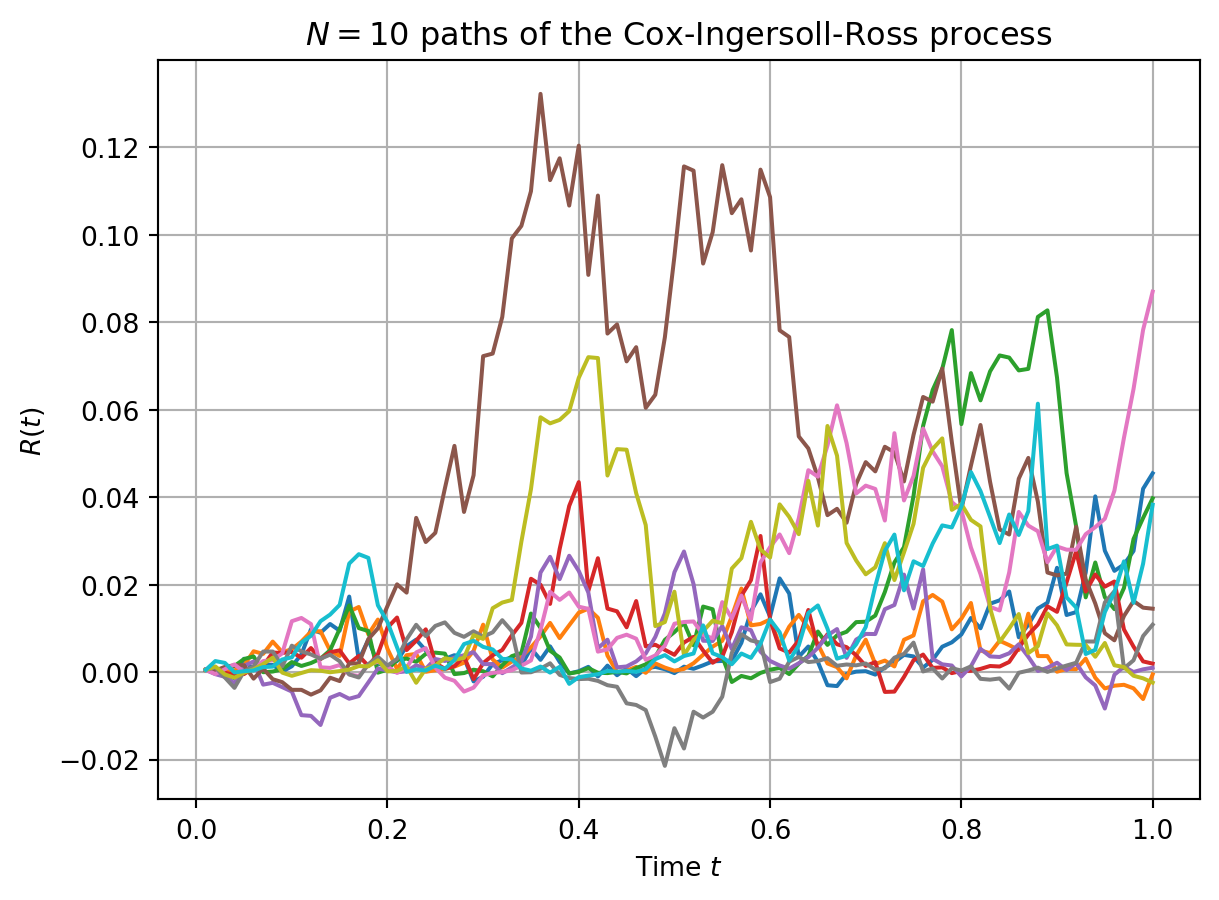
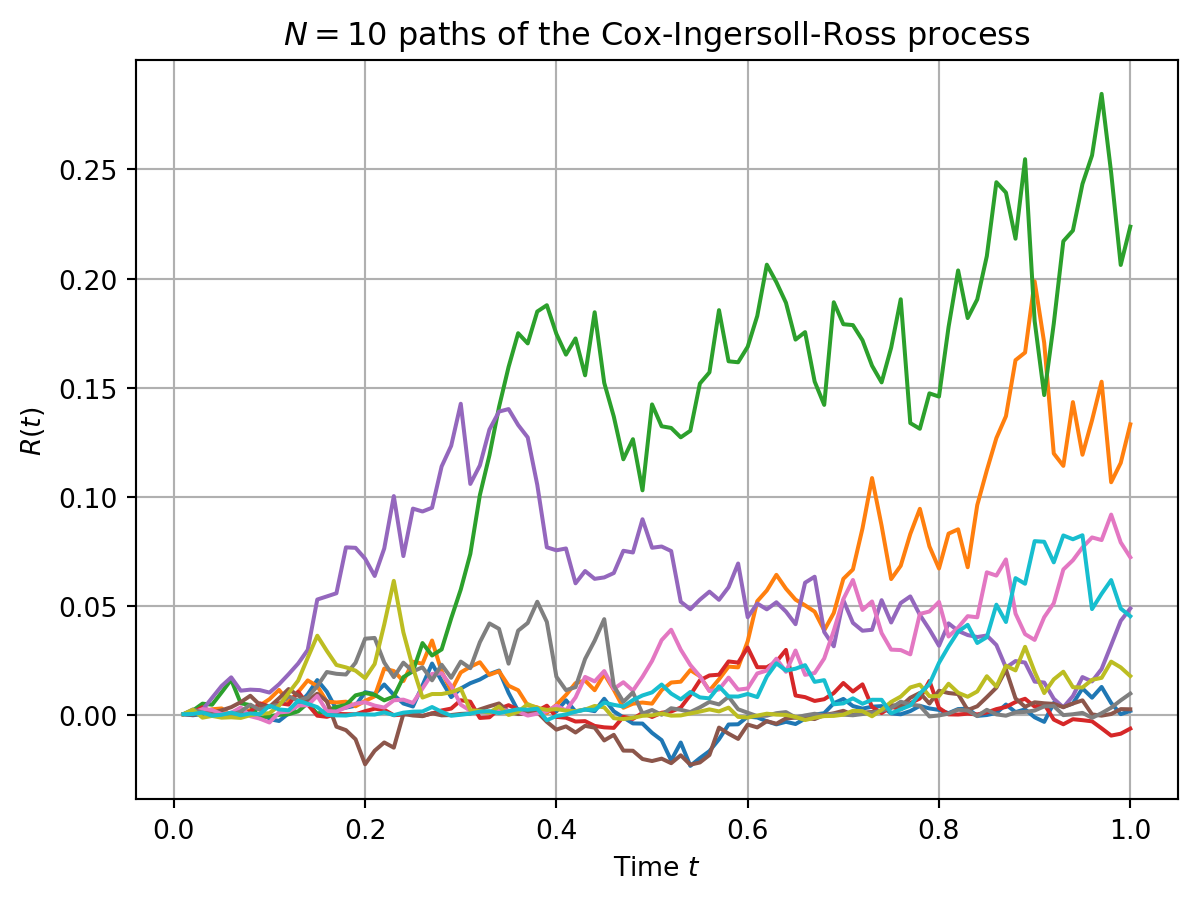
minor updates

diff --git a/docs/posts/cox-ingersoll-ross-model/index.html b/docs/posts/cox-ingersoll-ross-model/index.html
@@ -245,37 +245,35 @@ r_t &amp;= r_0 e^{-\kappa t} + \theta (1 - e^{-\kappa t}) + \sigma \int_{0}^{t} 
 <span id="cb1-11"><a href="#cb1-11" aria-hidden="true" tabindex="-1"></a>        kappa: <span class="bu">float</span>,</span>
 <span id="cb1-12"><a href="#cb1-12" aria-hidden="true" tabindex="-1"></a>        theta: <span class="bu">float</span>,</span>
 <span id="cb1-13"><a href="#cb1-13" aria-hidden="true" tabindex="-1"></a>        sigma: <span class="bu">float</span>,</span>
-<span id="cb1-14"><a href="#cb1-14" aria-hidden="true" tabindex="-1"></a>        num_paths: <span class="bu">int</span>,</span>
-<span id="cb1-15"><a href="#cb1-15" aria-hidden="true" tabindex="-1"></a>        step_size: <span class="bu">float</span>,</span>
-<span id="cb1-16"><a href="#cb1-16" aria-hidden="true" tabindex="-1"></a>        total_time: <span class="bu">float</span>,</span>
-<span id="cb1-17"><a href="#cb1-17" aria-hidden="true" tabindex="-1"></a>    ):</span>
-<span id="cb1-18"><a href="#cb1-18" aria-hidden="true" tabindex="-1"></a>        <span class="va">self</span>.kappa <span class="op">=</span> kappa</span>
-<span id="cb1-19"><a href="#cb1-19" aria-hidden="true" tabindex="-1"></a>        <span class="va">self</span>.theta <span class="op">=</span> theta</span>
-<span id="cb1-20"><a href="#cb1-20" aria-hidden="true" tabindex="-1"></a>        <span class="va">self</span>.sigma <span class="op">=</span> sigma</span>
-<span id="cb1-21"><a href="#cb1-21" aria-hidden="true" tabindex="-1"></a>        <span class="va">self</span>.num_paths <span class="op">=</span> num_paths</span>
-<span id="cb1-22"><a href="#cb1-22" aria-hidden="true" tabindex="-1"></a>        <span class="va">self</span>.step_size <span class="op">=</span> step_size</span>
-<span id="cb1-23"><a href="#cb1-23" aria-hidden="true" tabindex="-1"></a>        <span class="va">self</span>.total_time <span class="op">=</span> total_time</span>
-<span id="cb1-24"><a href="#cb1-24" aria-hidden="true" tabindex="-1"></a></span>
-<span id="cb1-25"><a href="#cb1-25" aria-hidden="true" tabindex="-1"></a>    <span class="kw">def</span> generate_paths(<span class="va">self</span>):</span>
-<span id="cb1-26"><a href="#cb1-26" aria-hidden="true" tabindex="-1"></a>        <span class="co">"""Generate sample paths"""</span></span>
-<span id="cb1-27"><a href="#cb1-27" aria-hidden="true" tabindex="-1"></a>        num_steps <span class="op">=</span> <span class="bu">int</span>(<span class="va">self</span>.total_time <span class="op">/</span> <span class="va">self</span>.step_size)</span>
-<span id="cb1-28"><a href="#cb1-28" aria-hidden="true" tabindex="-1"></a>        dz <span class="op">=</span> np.random.standard_normal((<span class="va">self</span>.num_paths, num_steps))</span>
-<span id="cb1-29"><a href="#cb1-29" aria-hidden="true" tabindex="-1"></a>        r_t <span class="op">=</span> np.zeros((<span class="va">self</span>.num_paths, num_steps))</span>
-<span id="cb1-30"><a href="#cb1-30" aria-hidden="true" tabindex="-1"></a>        zero_vector <span class="op">=</span> np.full(<span class="va">self</span>.num_paths, <span class="fl">0.0</span>)</span>
-<span id="cb1-31"><a href="#cb1-31" aria-hidden="true" tabindex="-1"></a>        prev_r <span class="op">=</span> zero_vector</span>
-<span id="cb1-32"><a href="#cb1-32" aria-hidden="true" tabindex="-1"></a>        <span class="cf">for</span> i <span class="kw">in</span> <span class="bu">range</span>(num_steps):</span>
-<span id="cb1-33"><a href="#cb1-33" aria-hidden="true" tabindex="-1"></a>            r_t[:, i] <span class="op">=</span> (</span>
-<span id="cb1-34"><a href="#cb1-34" aria-hidden="true" tabindex="-1"></a>                prev_r</span>
-<span id="cb1-35"><a href="#cb1-35" aria-hidden="true" tabindex="-1"></a>                <span class="op">+</span> <span class="va">self</span>.kappa <span class="op">*</span> np.subtract(<span class="va">self</span>.theta, prev_r) <span class="op">*</span> <span class="va">self</span>.step_size</span>
-<span id="cb1-36"><a href="#cb1-36" aria-hidden="true" tabindex="-1"></a>                <span class="op">+</span> <span class="va">self</span>.sigma</span>
-<span id="cb1-37"><a href="#cb1-37" aria-hidden="true" tabindex="-1"></a>                <span class="op">*</span> np.sqrt(np.<span class="bu">abs</span>(prev_r))</span>
-<span id="cb1-38"><a href="#cb1-38" aria-hidden="true" tabindex="-1"></a>                <span class="op">*</span> math.sqrt(<span class="va">self</span>.step_size)</span>
-<span id="cb1-39"><a href="#cb1-39" aria-hidden="true" tabindex="-1"></a>                <span class="op">*</span> dz[:, i]</span>
-<span id="cb1-40"><a href="#cb1-40" aria-hidden="true" tabindex="-1"></a>            )</span>
+<span id="cb1-14"><a href="#cb1-14" aria-hidden="true" tabindex="-1"></a>        step_size: <span class="bu">float</span>,</span>
+<span id="cb1-15"><a href="#cb1-15" aria-hidden="true" tabindex="-1"></a>        total_time: <span class="bu">float</span>,</span>
+<span id="cb1-16"><a href="#cb1-16" aria-hidden="true" tabindex="-1"></a>    ):</span>
+<span id="cb1-17"><a href="#cb1-17" aria-hidden="true" tabindex="-1"></a>        <span class="va">self</span>.kappa <span class="op">=</span> kappa</span>
+<span id="cb1-18"><a href="#cb1-18" aria-hidden="true" tabindex="-1"></a>        <span class="va">self</span>.theta <span class="op">=</span> theta</span>
+<span id="cb1-19"><a href="#cb1-19" aria-hidden="true" tabindex="-1"></a>        <span class="va">self</span>.sigma <span class="op">=</span> sigma</span>
+<span id="cb1-20"><a href="#cb1-20" aria-hidden="true" tabindex="-1"></a>        <span class="va">self</span>.step_size <span class="op">=</span> step_size</span>
+<span id="cb1-21"><a href="#cb1-21" aria-hidden="true" tabindex="-1"></a>        <span class="va">self</span>.total_time <span class="op">=</span> total_time</span>
+<span id="cb1-22"><a href="#cb1-22" aria-hidden="true" tabindex="-1"></a></span>
+<span id="cb1-23"><a href="#cb1-23" aria-hidden="true" tabindex="-1"></a>    <span class="kw">def</span> generate_paths(<span class="va">self</span>, num_paths):</span>
+<span id="cb1-24"><a href="#cb1-24" aria-hidden="true" tabindex="-1"></a>        <span class="co">"""Generate sample paths"""</span></span>
+<span id="cb1-25"><a href="#cb1-25" aria-hidden="true" tabindex="-1"></a>        num_steps <span class="op">=</span> <span class="bu">int</span>(<span class="va">self</span>.total_time <span class="op">/</span> <span class="va">self</span>.step_size)</span>
+<span id="cb1-26"><a href="#cb1-26" aria-hidden="true" tabindex="-1"></a>        dz <span class="op">=</span> np.random.standard_normal((num_paths, num_steps))</span>
+<span id="cb1-27"><a href="#cb1-27" aria-hidden="true" tabindex="-1"></a>        r_t <span class="op">=</span> np.zeros((num_paths, num_steps))</span>
+<span id="cb1-28"><a href="#cb1-28" aria-hidden="true" tabindex="-1"></a>        zero_vector <span class="op">=</span> np.full(num_paths, <span class="fl">0.0</span>)</span>
+<span id="cb1-29"><a href="#cb1-29" aria-hidden="true" tabindex="-1"></a>        prev_r <span class="op">=</span> zero_vector</span>
+<span id="cb1-30"><a href="#cb1-30" aria-hidden="true" tabindex="-1"></a>        <span class="cf">for</span> i <span class="kw">in</span> <span class="bu">range</span>(num_steps):</span>
+<span id="cb1-31"><a href="#cb1-31" aria-hidden="true" tabindex="-1"></a>            r_t[:, i] <span class="op">=</span> (</span>
+<span id="cb1-32"><a href="#cb1-32" aria-hidden="true" tabindex="-1"></a>                prev_r</span>
+<span id="cb1-33"><a href="#cb1-33" aria-hidden="true" tabindex="-1"></a>                <span class="op">+</span> <span class="va">self</span>.kappa <span class="op">*</span> np.subtract(<span class="va">self</span>.theta, prev_r) <span class="op">*</span> <span class="va">self</span>.step_size</span>
+<span id="cb1-34"><a href="#cb1-34" aria-hidden="true" tabindex="-1"></a>                <span class="op">+</span> <span class="va">self</span>.sigma</span>
+<span id="cb1-35"><a href="#cb1-35" aria-hidden="true" tabindex="-1"></a>                <span class="op">*</span> np.sqrt(np.<span class="bu">abs</span>(prev_r))</span>
+<span id="cb1-36"><a href="#cb1-36" aria-hidden="true" tabindex="-1"></a>                <span class="op">*</span> math.sqrt(<span class="va">self</span>.step_size)</span>
+<span id="cb1-37"><a href="#cb1-37" aria-hidden="true" tabindex="-1"></a>                <span class="op">*</span> dz[:, i]</span>
+<span id="cb1-38"><a href="#cb1-38" aria-hidden="true" tabindex="-1"></a>            )</span>
+<span id="cb1-39"><a href="#cb1-39" aria-hidden="true" tabindex="-1"></a></span>
+<span id="cb1-40"><a href="#cb1-40" aria-hidden="true" tabindex="-1"></a>            prev_r <span class="op">=</span> r_t[:, i]</span>
 <span id="cb1-41"><a href="#cb1-41" aria-hidden="true" tabindex="-1"></a></span>
-<span id="cb1-42"><a href="#cb1-42" aria-hidden="true" tabindex="-1"></a>            prev_r <span class="op">=</span> r_t[:, i]</span>
-<span id="cb1-43"><a href="#cb1-43" aria-hidden="true" tabindex="-1"></a></span>
-<span id="cb1-44"><a href="#cb1-44" aria-hidden="true" tabindex="-1"></a>        <span class="cf">return</span> r_t</span></code><button title="Copy to Clipboard" class="code-copy-button"><i class="bi"></i></button></pre></div>
+<span id="cb1-42"><a href="#cb1-42" aria-hidden="true" tabindex="-1"></a>        <span class="cf">return</span> r_t</span></code><button title="Copy to Clipboard" class="code-copy-button"><i class="bi"></i></button></pre></div>
 </div>
 </section>
 <section id="sample-paths" class="level3">
@@ -285,10 +283,10 @@ r_t &amp;= r_0 e^{-\kappa t} + \theta (1 - e^{-\kappa t}) + \sigma \int_{0}^{t} 
 <details>
 <summary>Show the code</summary>
 <div class="sourceCode cell-code" id="cb2"><pre class="sourceCode python code-with-copy"><code class="sourceCode python"><span id="cb2-1"><a href="#cb2-1" aria-hidden="true" tabindex="-1"></a>cir_process <span class="op">=</span> CIRProcess(</span>
-<span id="cb2-2"><a href="#cb2-2" aria-hidden="true" tabindex="-1"></a>    kappa<span class="op">=</span><span class="fl">0.1</span>, theta<span class="op">=</span><span class="fl">0.5</span>, sigma<span class="op">=</span><span class="fl">0.5</span>, num_paths<span class="op">=</span><span class="dv">10</span>, step_size<span class="op">=</span><span class="fl">0.01</span>, total_time<span class="op">=</span><span class="fl">1.0</span></span>
+<span id="cb2-2"><a href="#cb2-2" aria-hidden="true" tabindex="-1"></a>    kappa<span class="op">=</span><span class="fl">0.1</span>, theta<span class="op">=</span><span class="fl">0.5</span>, sigma<span class="op">=</span><span class="fl">0.5</span>, step_size<span class="op">=</span><span class="fl">0.01</span>, total_time<span class="op">=</span><span class="fl">1.0</span></span>
 <span id="cb2-3"><a href="#cb2-3" aria-hidden="true" tabindex="-1"></a>)</span>
 <span id="cb2-4"><a href="#cb2-4" aria-hidden="true" tabindex="-1"></a></span>
-<span id="cb2-5"><a href="#cb2-5" aria-hidden="true" tabindex="-1"></a>paths <span class="op">=</span> cir_process.generate_paths()</span>
+<span id="cb2-5"><a href="#cb2-5" aria-hidden="true" tabindex="-1"></a>paths <span class="op">=</span> cir_process.generate_paths(num_paths<span class="op">=</span><span class="dv">10</span>)</span>
 <span id="cb2-6"><a href="#cb2-6" aria-hidden="true" tabindex="-1"></a>t <span class="op">=</span> np.linspace(<span class="fl">0.01</span>, <span class="fl">1.0</span>, <span class="dv">100</span>)</span>
 <span id="cb2-7"><a href="#cb2-7" aria-hidden="true" tabindex="-1"></a></span>
 <span id="cb2-8"><a href="#cb2-8" aria-hidden="true" tabindex="-1"></a>plt.grid(<span class="va">True</span>)</span>
@@ -301,7 +299,7 @@ r_t &amp;= r_0 e^{-\kappa t} + \theta (1 - e^{-\kappa t}) + \sigma \int_{0}^{t} 
 <span id="cb2-15"><a href="#cb2-15" aria-hidden="true" tabindex="-1"></a>plt.show()</span></code><button title="Copy to Clipboard" class="code-copy-button"><i class="bi"></i></button></pre></div>
 </details>
 <div class="cell-output cell-output-display">
-<p><img src="index_files/figure-html/cell-3-output-1.png" width="610" height="450"></p>
+<p><img src="index_files/figure-html/cell-3-output-1.png" width="598" height="450"></p>
 </div>
 </div>
 

diff --git a/docs/index.html b/docs/index.html
@@ -153,7 +153,7 @@ ul.task-list li input[type="checkbox"] {
 
 <div class="quarto-listing quarto-listing-container-grid" id="listing-listing">
 <div class="list grid quarto-listing-cols-3">
-<div class="g-col-1" data-index="0" data-categories="Interest Rate Modelling" data-listing-date-sort="1715119200000" data-listing-file-modified-sort="1715174938711" data-listing-date-modified-sort="NaN" data-listing-reading-time-sort="4">
+<div class="g-col-1" data-index="0" data-categories="Interest Rate Modelling" data-listing-date-sort="1715119200000" data-listing-file-modified-sort="1715195243064" data-listing-date-modified-sort="NaN" data-listing-reading-time-sort="4">
 <a href="./posts/cox-ingersoll-ross-model/index.html" class="quarto-grid-link">
 <div class="quarto-grid-item card h-100 card-left">
 <p class="card-img-top">

diff --git a/posts/cox-ingersoll-ross-model/cox_ingersoll_ross.py b/posts/cox-ingersoll-ross-model/cox_ingersoll_ross.py
@@ -1,6 +1,9 @@
 import math
 import numpy as np
 import matplotlib.pyplot as plt
+from matplotlib import cm
+import pandas as pd
+import joypy
 
 
 class CIRProcess:
@@ -11,23 +14,21 @@ class CIRProcess:
         kappa: float,
         theta: float,
         sigma: float,
-        num_paths: int,
         step_size: float,
         total_time: float,
     ):
         self.kappa = kappa
         self.theta = theta
         self.sigma = sigma
-        self.num_paths = num_paths
         self.step_size = step_size
         self.total_time = total_time
 
-    def generate_paths(self):
+    def generate_paths(self, num_paths):
         """Generate sample paths"""
         num_steps = int(self.total_time / self.step_size)
-        dz = np.random.standard_normal((self.num_paths, num_steps))
-        r_t = np.zeros((self.num_paths, num_steps))
-        zero_vector = np.full(self.num_paths, 0.0)
+        dz = np.random.standard_normal((num_paths, num_steps))
+        r_t = np.zeros((num_paths, num_steps))
+        zero_vector = np.full(num_paths, 0.0)
         prev_r = zero_vector
         for i in range(num_steps):
             r_t[:, i] = (
@@ -45,14 +46,32 @@ class CIRProcess:
 
 
 cir_process = CIRProcess(
-    kappa=0.1, theta=0.5, sigma=0.5, num_paths=10, step_size=0.01, total_time=1.0
+    kappa=0.5, theta=0.5, sigma=1.0, step_size=0.01, total_time=1.0
 )
 
-paths = cir_process.generate_paths()
-t = np.linspace(0.01, 1.0, 100)
+num_paths = 10000
+paths = cir_process.generate_paths(num_paths)
 
-plt.grid(True)
-for path in paths:
-    plt.plot(t, path)
+# Wrap the paths 2d-array in a dataframe
+paths_tr = paths.transpose()
+samples = paths_tr[
+    4::5
+]  # Take 20 samples at times t=0.05, 0.10, 0.15, ..., 1.0 along each path
+samples_arr = samples.reshape(num_paths * 20)  # Reshape in a 1d column-vector
+samples_df = pd.DataFrame(samples_arr, columns=["values"])
+samples_df["time"] = [
+    "t=" + str((int(i / num_paths) + 1) / 20) for i in range(num_paths * 20)
+]
+
+fig, ax = joypy.joyplot(
+    samples_df,
+    by="time",
+    column="values",
+    grid="y",
+    range_style="own",
+    kind="kde",
+    tails=0.00002,
+    colormap=cm.autumn_r,
+)
 
 plt.show()
